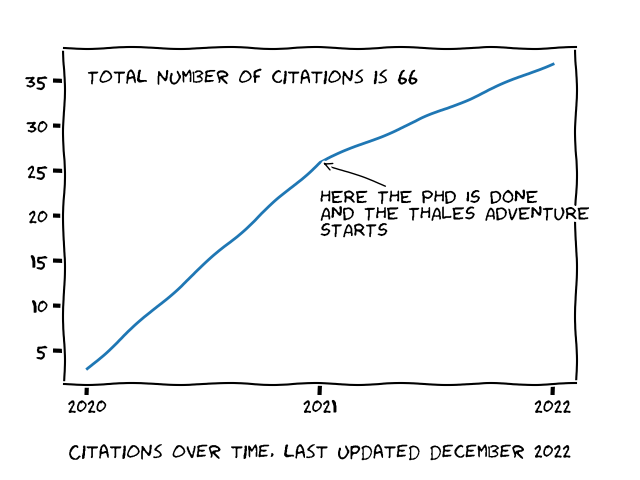
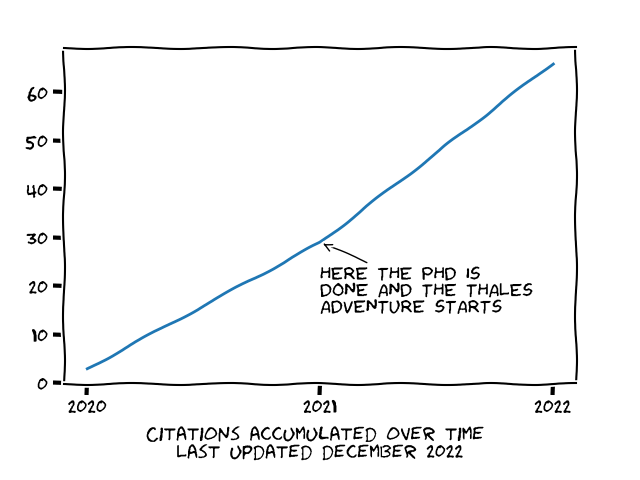
citations

diff --git a/generate_citations_plot.py b/generate_citations_plot.py
@@ -9,23 +9,24 @@ with plt.xkcd():
     ax = fig.add_axes((0.1, 0.2, 0.8, 0.7))
 
 
-    y = [3, 26, 37]
+    citations_by_year = [3, 26, 37]
+    y = np.cumsum(citations_by_year)
     x = ["2020", "2021", "2022"]
 
     ax.annotate(
-        'HERE THE PHD IS DONE \nAND THE THALES ADVENTURE \nSTARTS',
-        xy=("2021", 26), arrowprops=dict(arrowstyle='->'), xytext=("2021", 18))
+        'HERE THE PHD IS \nDONE AND THE THALES \nADVENTURE STARTS',
+        xy=("2021", 29), arrowprops=dict(arrowstyle='->'), xytext=("2021", 15))
 
-    ax.annotate(
-        'Total number of citations is ' + str(np.sum(y)),
-        xy=("2020", 35), xytext=("2020", 35))
+    # ax.annotate(
+    #     'Total number of citations is ' + str(np.sum(y)),
+    #     xy=("2020", 35), xytext=("2020", 35))
 
 
     ax.plot(x, y)
 
     fig.text(
         0.5, 0.05,
-        'Citations over time, last updated december 2022',
+        'Citations accumulated over time \nLast updated december 2022',
         ha='center')
 
 plt.savefig('assets/images/citations.png')
